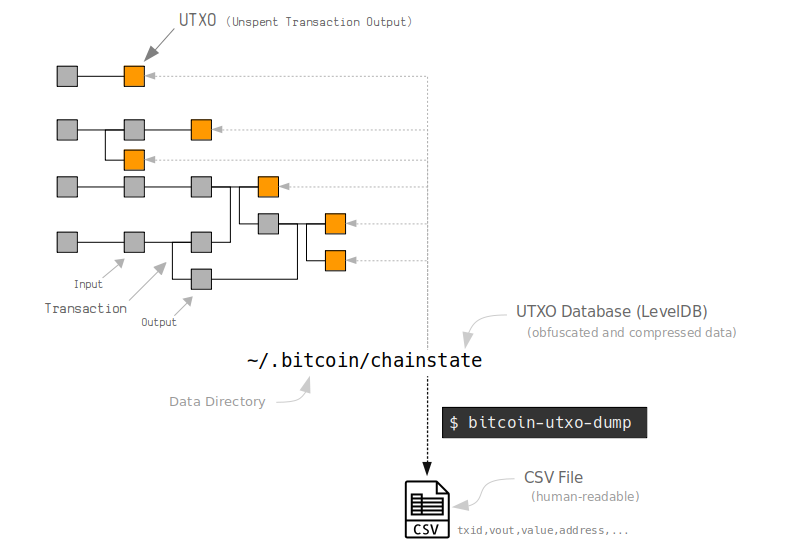
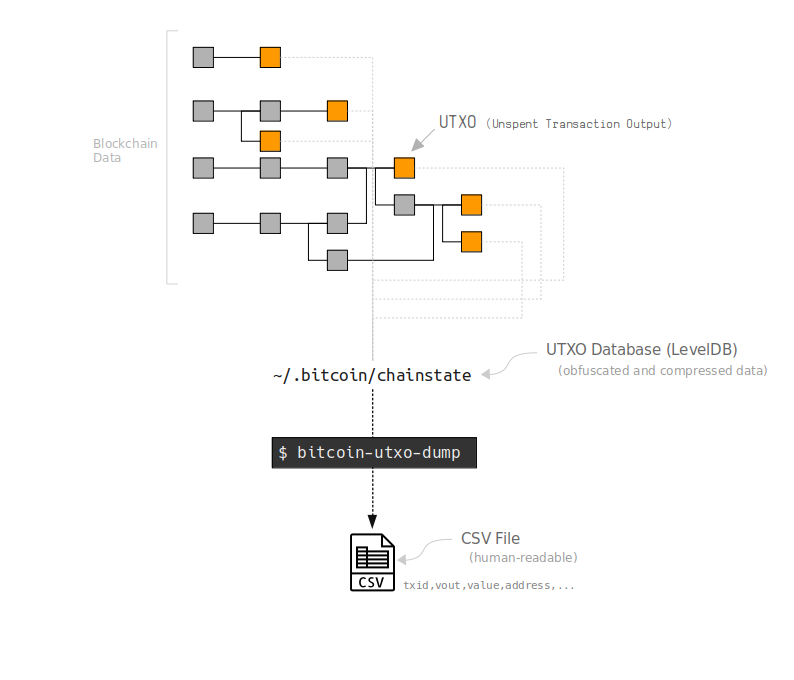
edited README

diff --git a/README.md b/README.md
@@ -4,7 +4,9 @@
 
 Get a **list of every unspent bitcoin** in the blockchain.
 
-The program iterates over each entry in Bitcoin Core's `chainstate` [LevelDB](http://leveldb.org/) database. It decompresses and decodes the data, and produces a human-readable text dump of all the UTXOs (unspent bitcoins). Here is an example of the output:
+The program iterates over each entry in Bitcoin Core's `chainstate` [LevelDB](http://leveldb.org/) database. It decompresses and decodes the data, and produces a human-readable text dump of all the [UTXO](http://learnmeabitcoin.com/glossary/utxo)s (unspent transaction outputs).
+
+#### Example
 
 ```
 count,txid,vout,value,type,address
@@ -41,12 +43,20 @@ This will create a binary called `bitcoin-utxo-dump`, which you can call from th
 $ bitcoin-utxo-dump
 ```
 
+This will start dumping all of the UTXO database to a file called `utxodump.csv`.
+
 **NOTE:** This program reads the chainstate LevelDB database created by `bitcoind`, so you will need to download and sync `bitcoind` for this script to work. In other words, this script reads your own local copy of the blockchain.
 
-**NOTE:** Make sure `bitcoind` isn't running before you start, because LevelDB does not like to be accessed by multiple programs at the same time. (`bitcoin-cli stop` should do it.)
+**NOTE:** LevelDB wasn't designed to be accessed by multiple programs at the same time, so make sure `bitcoind` isn't running before you start (`bitcoin-cli stop` should do it).
 
 
 ## Usage
+
+The basic command is:
+
+```
+$ bitcoin-utxo-dump
+```
 
 You can view the results in the terminal with the `-v` (verbose) flag:
 
@@ -54,7 +64,7 @@ You can view the results in the terminal with the `-v` (verbose) flag:
 $ bitcoin-utxo-dump -v
 ```
 
-The results will be written to the file `utxodump.csv` in the current directory (where you're running the program from), but you can choose your own filename with the `-o` option:
+The results will be written to the file `utxodump.csv` in the current directory (where you're running the program from). You can choose your own filename with the `-o` option:
 
 ```
 $ bitcoin-utxo-dump -o ~/Desktop/utxodump.txt
@@ -84,7 +94,7 @@ $ bitcoin-utxo-dump.go -f count,txid,vout,height,coinbase,value,script,type,addr
 * **address** - The address the output is locked to (this is generally just the locking script in a shorter format with user-friendly characters).
 
 
-All other options and whatnot can be found with `-h`:
+All other options can be found with `-h`:
 
 ```
 $ bitcoin-utxo-dump -h
@@ -118,7 +128,7 @@ This tool works for Bitcoin Core [0.15.1](https://bitcoincore.org/en/releases/0.
 
 Older versions of bitcoind have a different chainstate leveldb structure. The structure was updated in 0.15.1 to make reading from the database more memory-efficient. Here's an interesting talk by [Chris Jeffrey](https://youtu.be/0WCaoGiAOHE?t=8936) that explains how you could crash Bitcoin Core with the old chainstate database structure.
 
-Nonetheless, if you really want to parse an old-style chainstate database, try the _similar tools_ at the bottom of this page.
+Nonetheless, if you really want to parse an old-style chainstate database, try one of the _similar tools_ at the bottom of this page.
 
 ### How does this program work?
 
